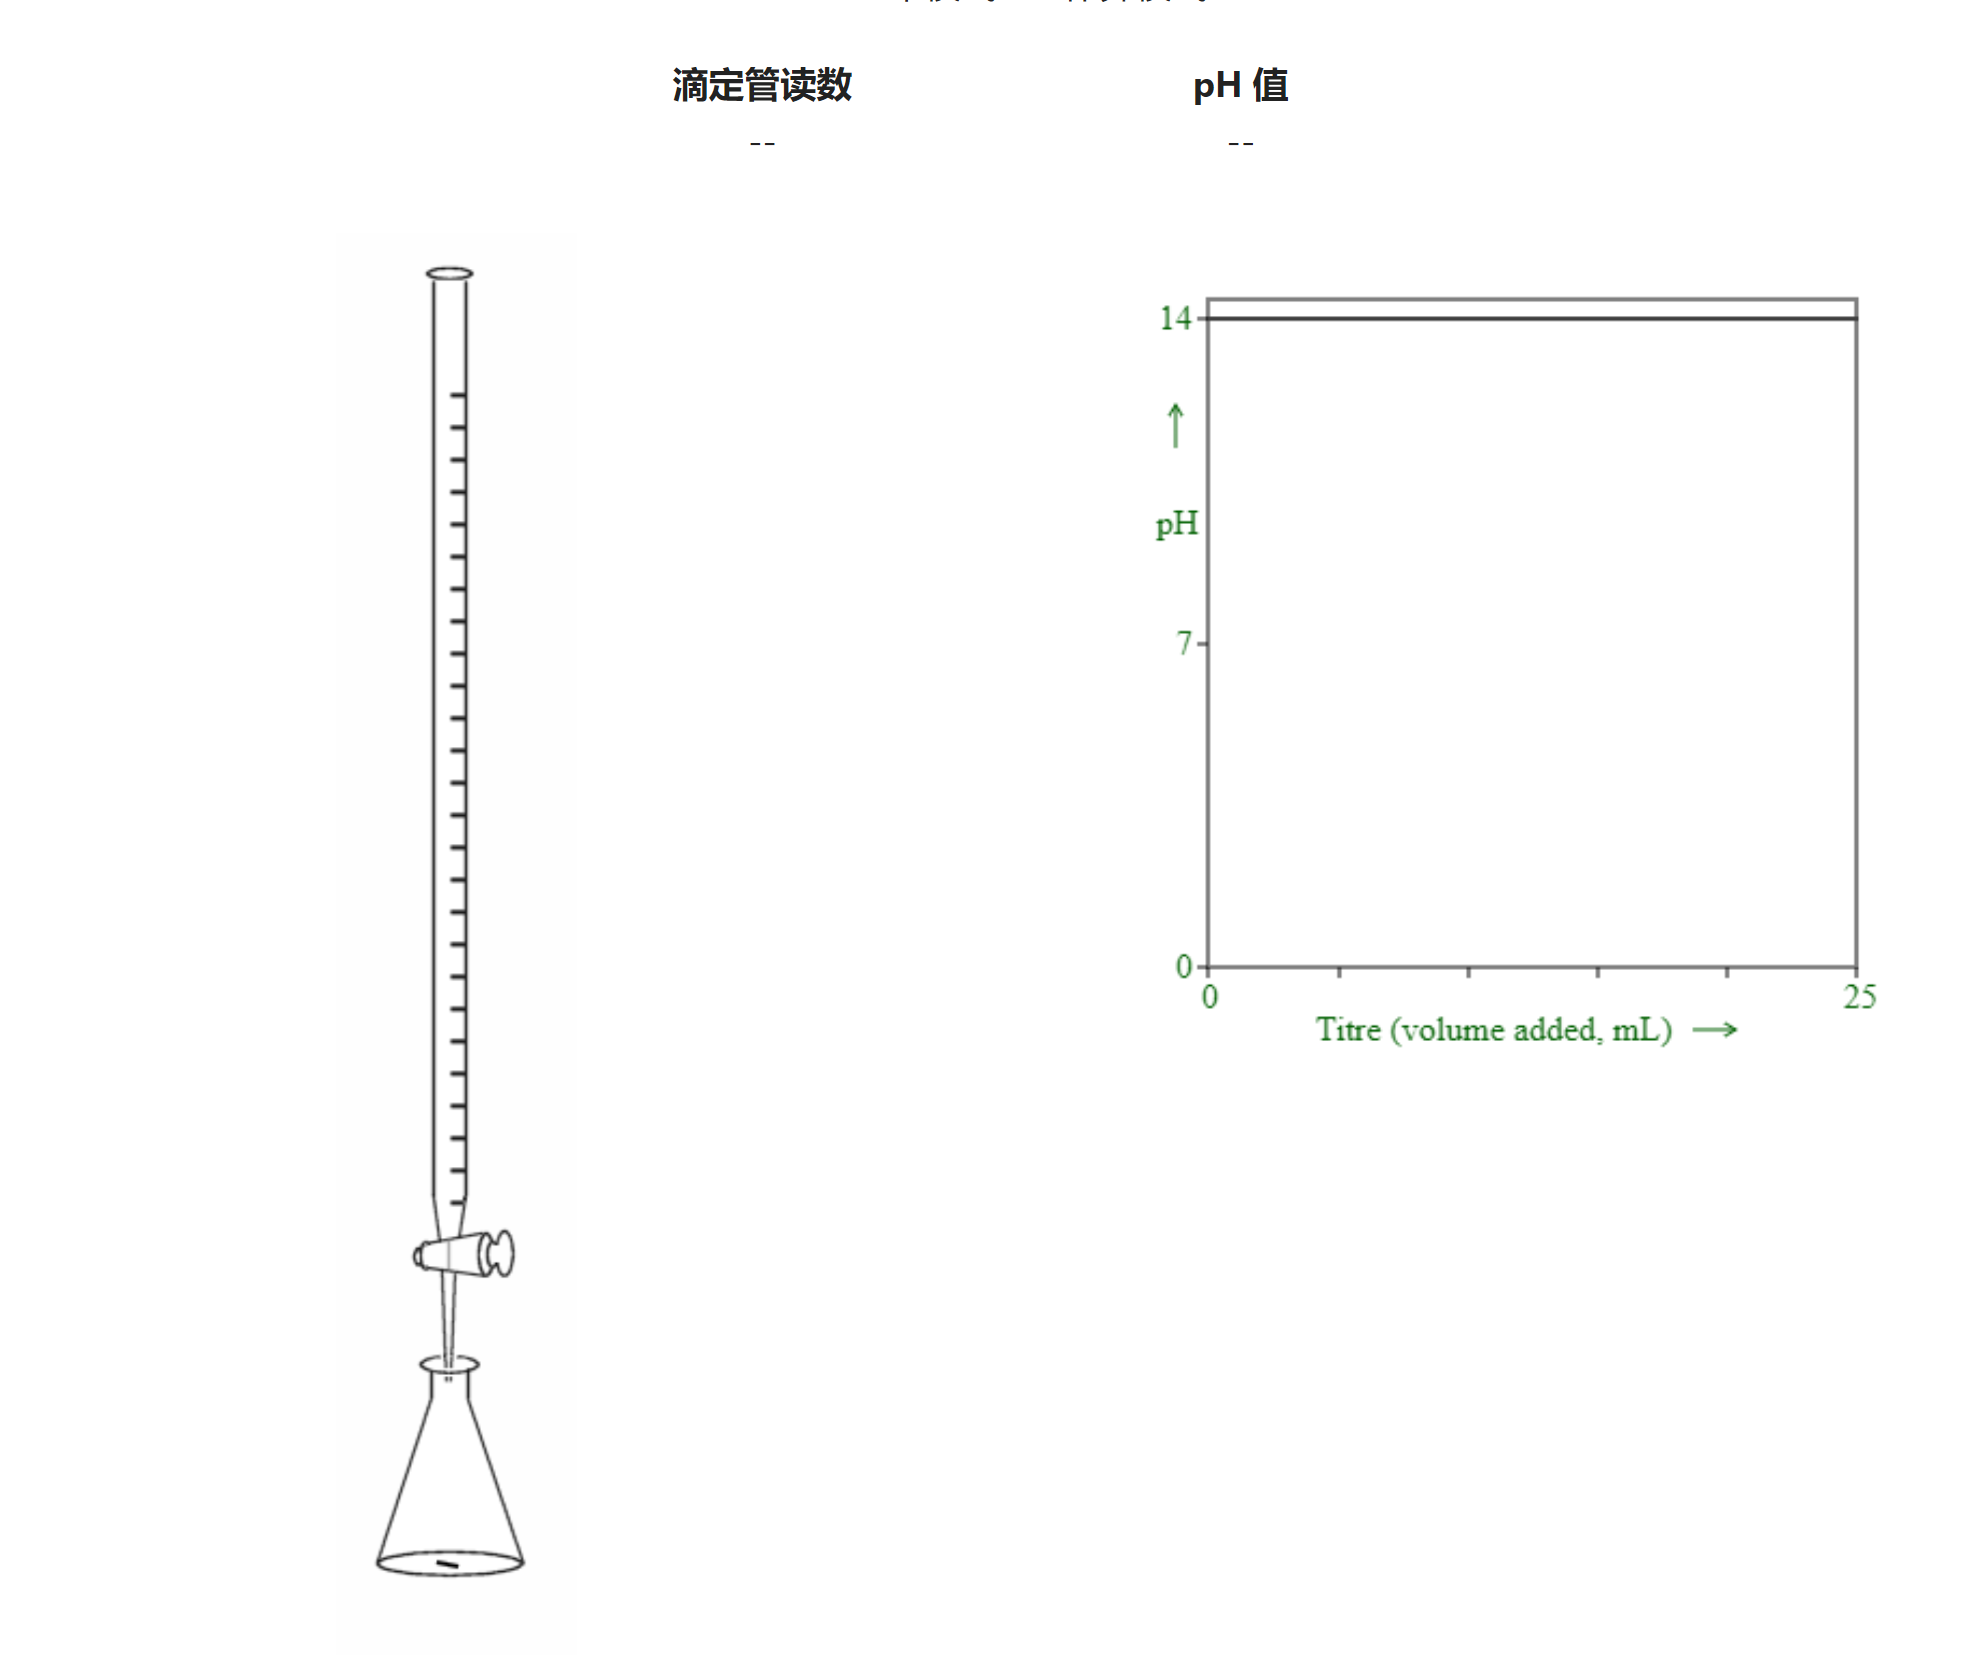
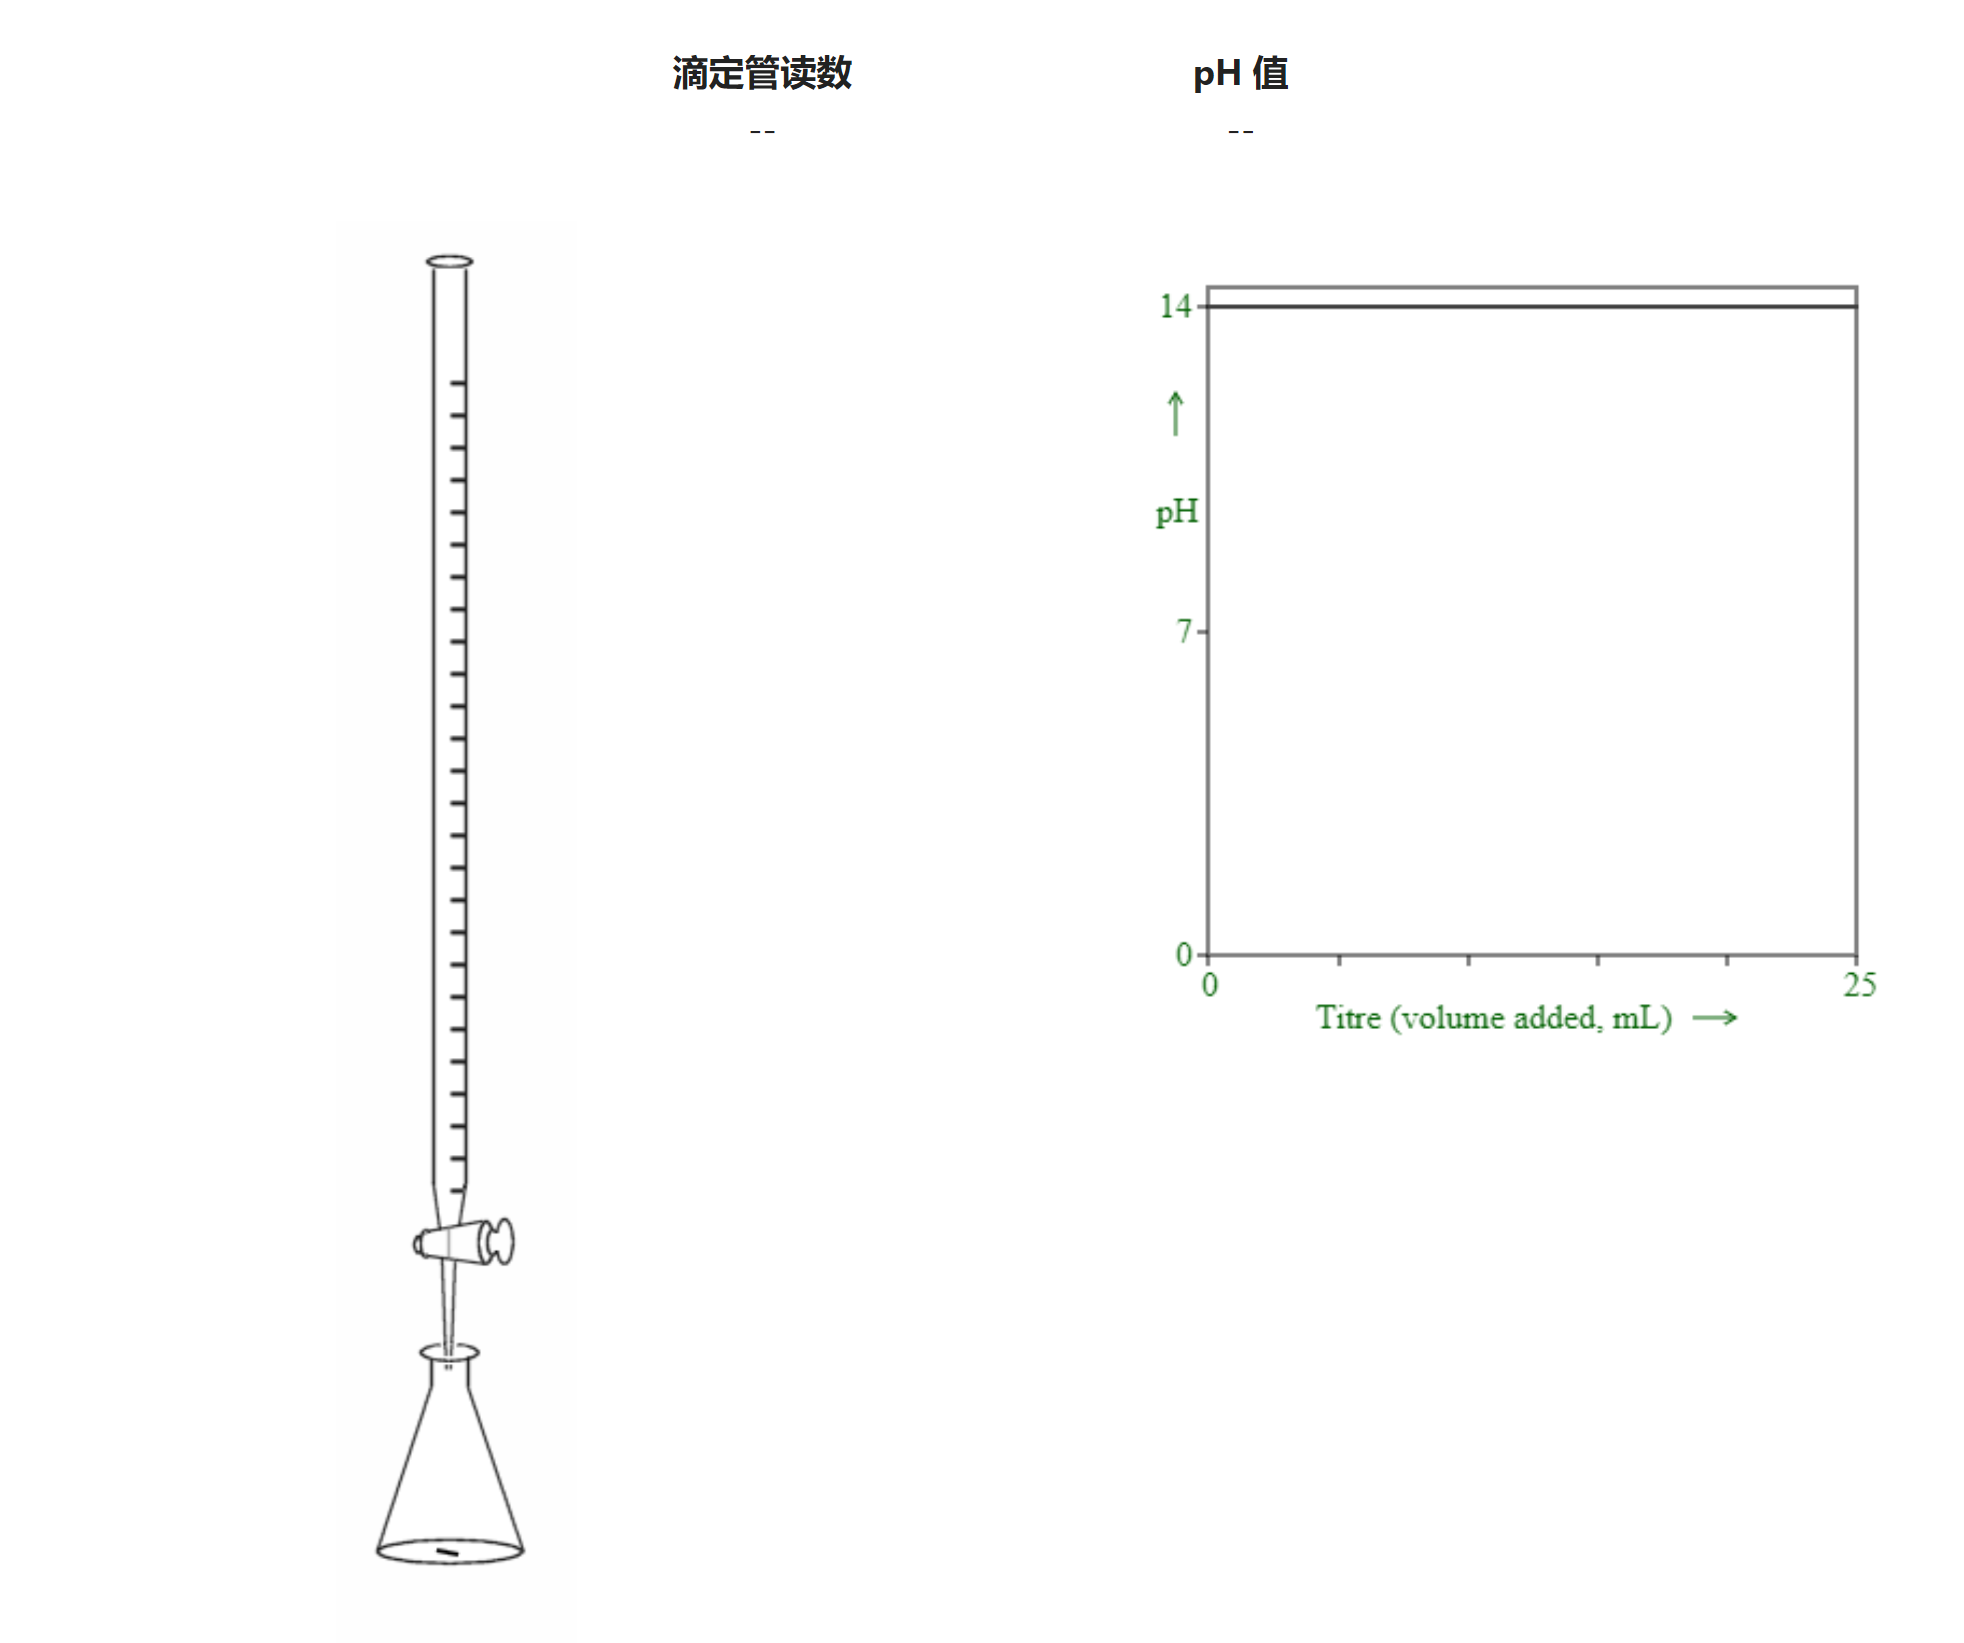
update

diff --git a/_posts/2023-08-05-Titration Simulator.md b/_posts/2023-08-05-Titration Simulator.md
@@ -21,18 +21,13 @@ cover: /assets/images/default.jpg
 在滴定过程中仍可以拖动滚动条调节滴定速度。
 {:.info}
 
-<div align=center>
-<img src="/assets/images/titration simulator/settings_area.png" style="width:75%; box-shadow:0 8px 16px rgba(0,0,0,0.23);">
-</div>
-<div align=center><font color="#999999">图1：滴定模拟器设置界面</font></div>
-
-<div class="card" align="center">
+<div class="card" style="margin:0 auto;max-width:75%">
 	<div class="card__image">
 		<img src="/assets/images/titration simulator/settings_area.png">
 	</div>
-	<div class="card__content">
+	<div class="card__content" align="center">
 		<div class="card__header">
-			<h4>图1：滴定模拟器设置界面</h4>
+			<font color="#999999">图1：滴定模拟器设置界面</font>
 		</div>
 	</div>
 </div>
@@ -44,10 +39,16 @@ cover: /assets/images/default.jpg
 当设置界面中的模式设置为正常模式时，滴定界面只显示实验仪器；当设置为作弊模式时才会显示数据与图像。
 {:.warning}
 
-<div align=center>
-<img src="/assets/images/titration simulator/titration_area.png" width="75%">
+<div class="card" style="margin:0 auto;max-width:75%">
+	<div class="card__image">
+		<img src="/assets/images/titration simulator/titration_area.png">
+	</div>
+	<div class="card__content" align="center">
+		<div class="card__header">
+			<font color="#999999">图2：滴定界面，左侧为仪器部分，右侧为pH值的变化图像</font>
+		</div>
+	</div>
 </div>
-<div align=center><font color="#999999">图2：滴定界面，左侧为仪器部分，右侧为pH值的变化图像</font></div>
 
 用户在完成滴定前设置之后，可点击黄色按钮<a class="button button--outline-warning button--rounded">开始/停止滴定</a>控制滴定，也可以通过点击滴定管活塞控制滴定。当用户认为已经到达滴定终点时，可点击绿色按钮<a class="button button--outline-success button--rounded">终止滴定并显示结果</a>查看滴定结果（包括绝对误差与相对误差）。
 
